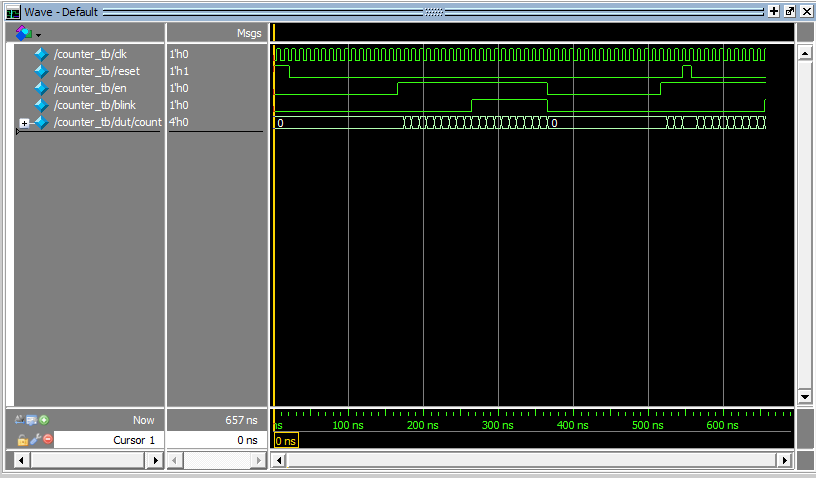
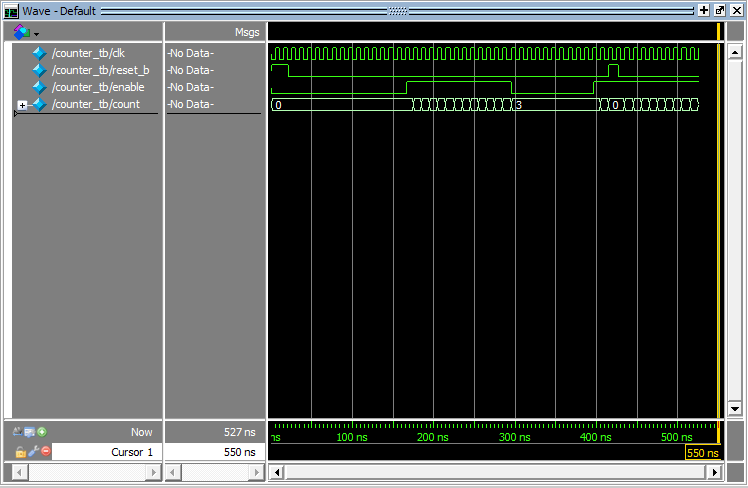
Built site for gh-pages

Changed region(s): [[0.0, 0.0, 1.0, 0.9958]]

diff --git a/blog.html b/blog.html
@@ -213,7 +213,7 @@ window.Quarto = {
 
 <div class="quarto-listing quarto-listing-container-default" id="listing-listing">
 <div class="list quarto-listing-default">
-<div class="quarto-post image-right" data-index="0" data-categories="cmVmbGVjdGlvbg==" data-listing-date-sort="1788937200000" data-listing-file-modified-sort="1789430403071" data-listing-date-modified-sort="NaN" data-listing-reading-time-sort="1" data-listing-word-count-sort="105">
+<div class="quarto-post image-right" data-index="0" data-categories="cmVmbGVjdGlvbg==" data-listing-date-sort="1788937200000" data-listing-file-modified-sort="1789510090771" data-listing-date-modified-sort="NaN" data-listing-reading-time-sort="1" data-listing-word-count-sort="105">
 <div class="thumbnail"><a href="./posts/first-post.html" class="no-external">
 
 <div class="listing-item-img-placeholder card-img-top" >&nbsp;</div>
